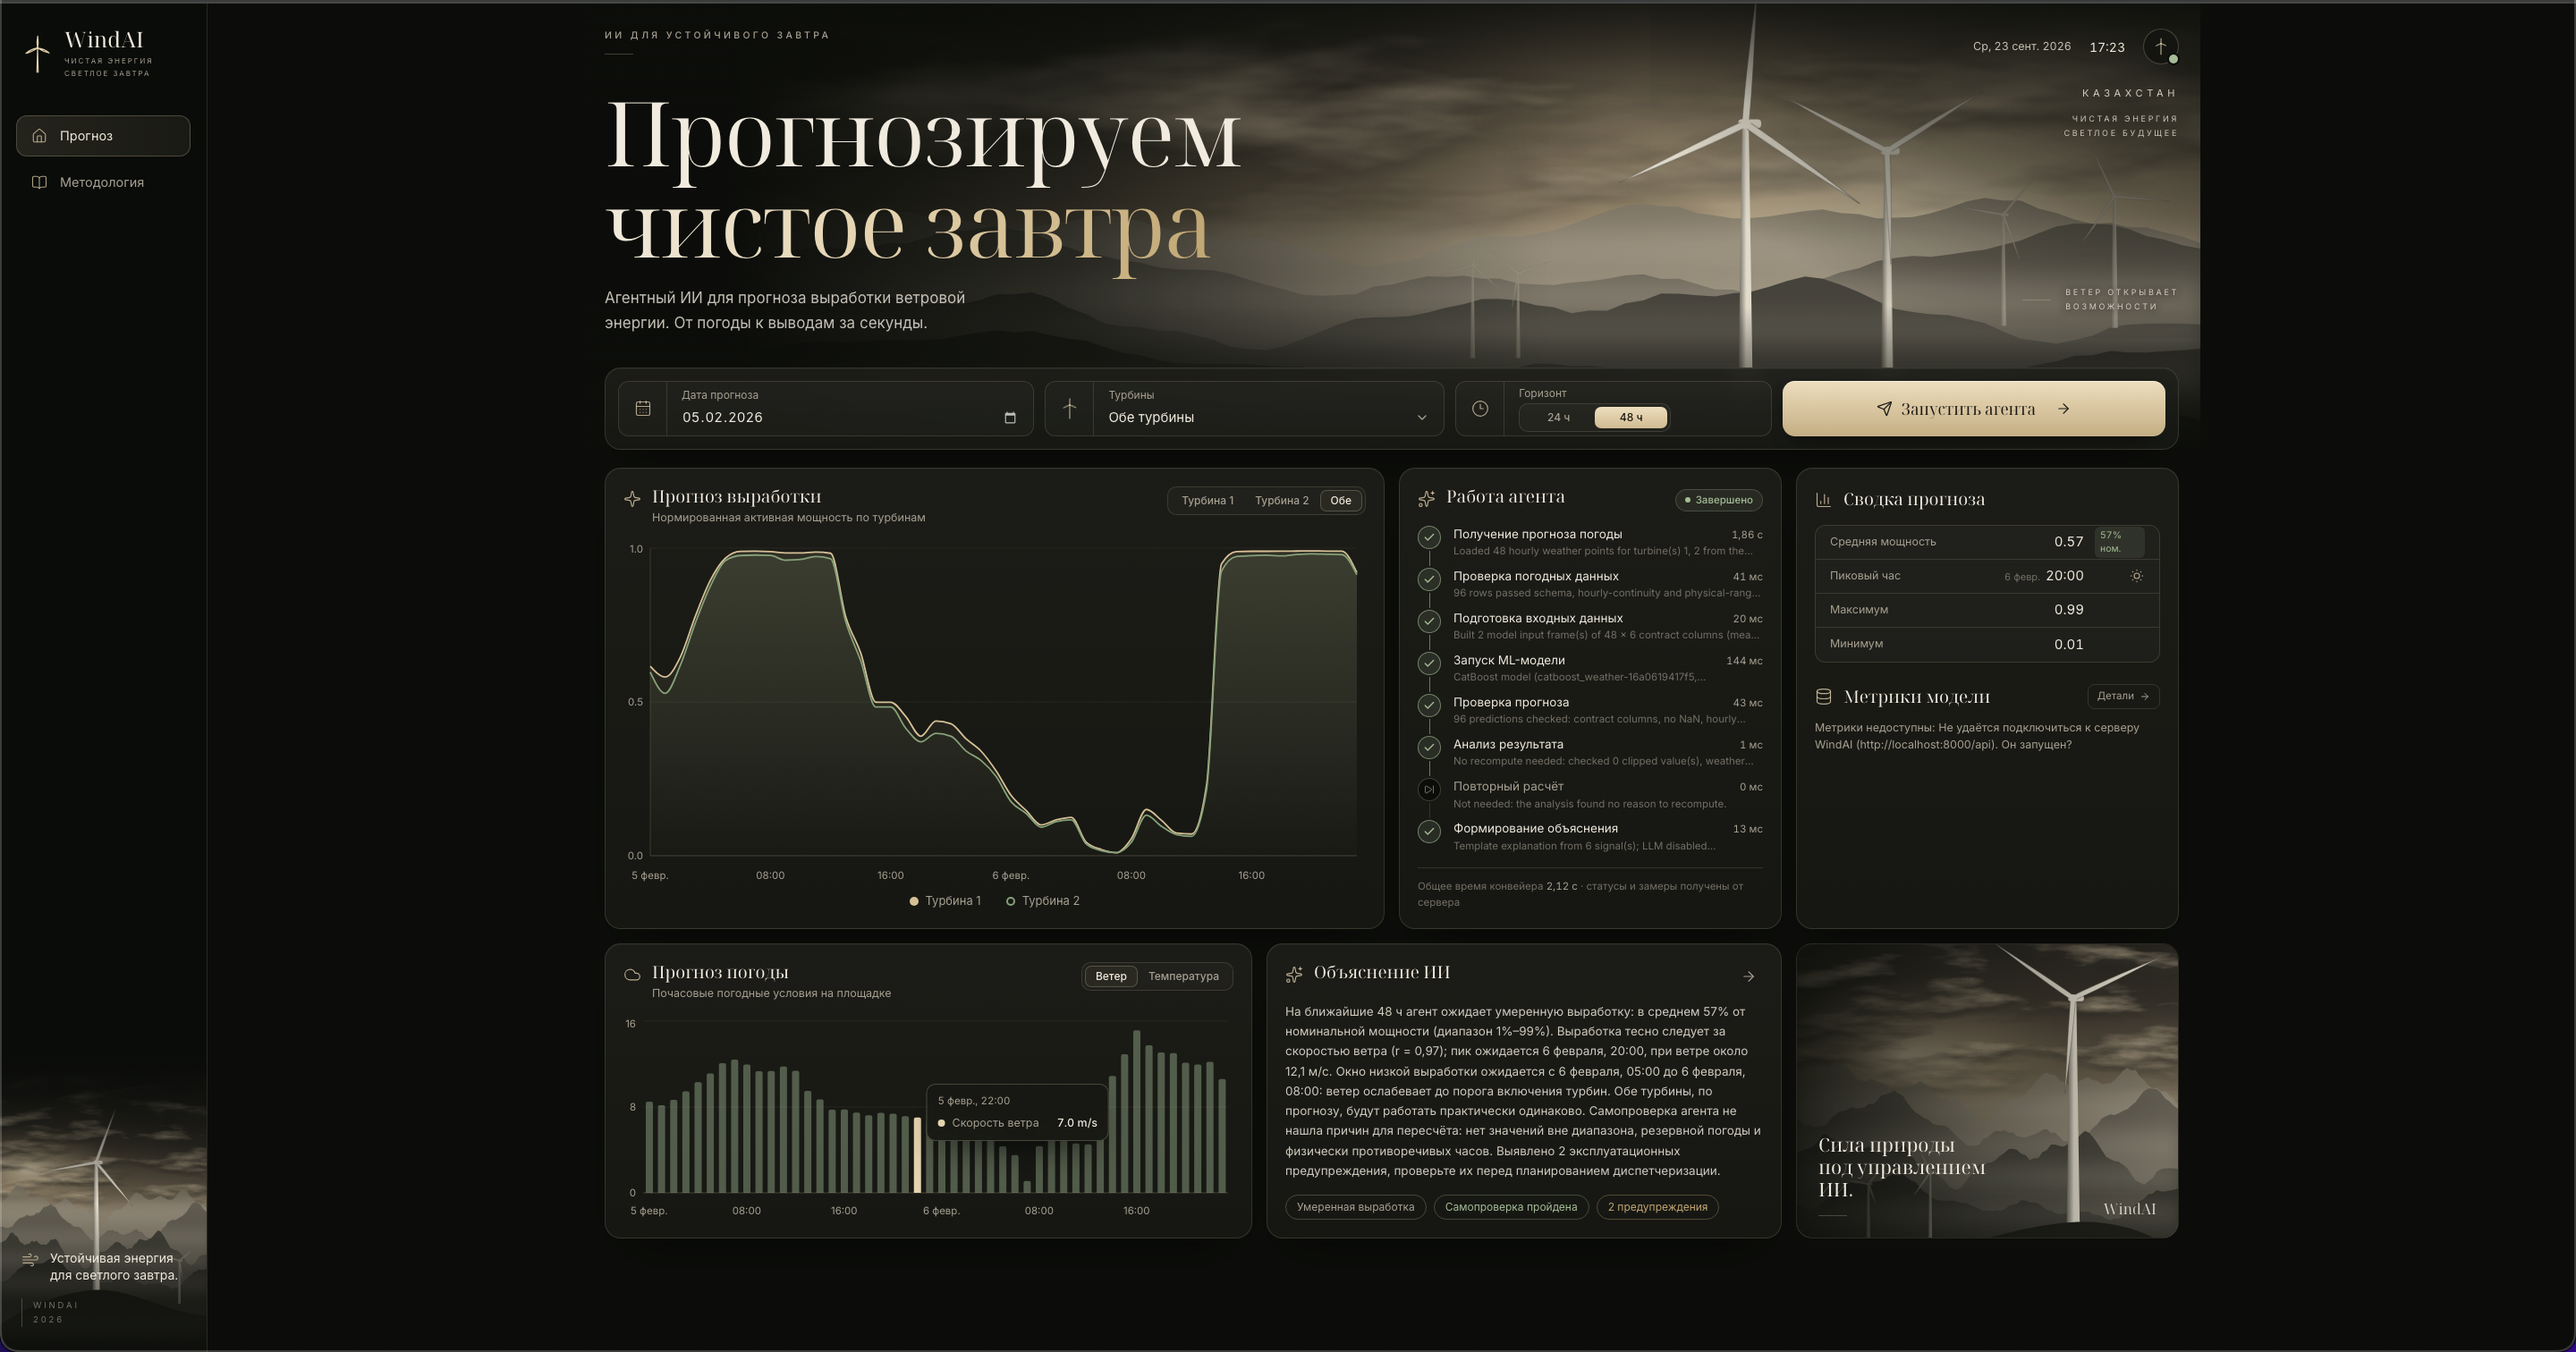
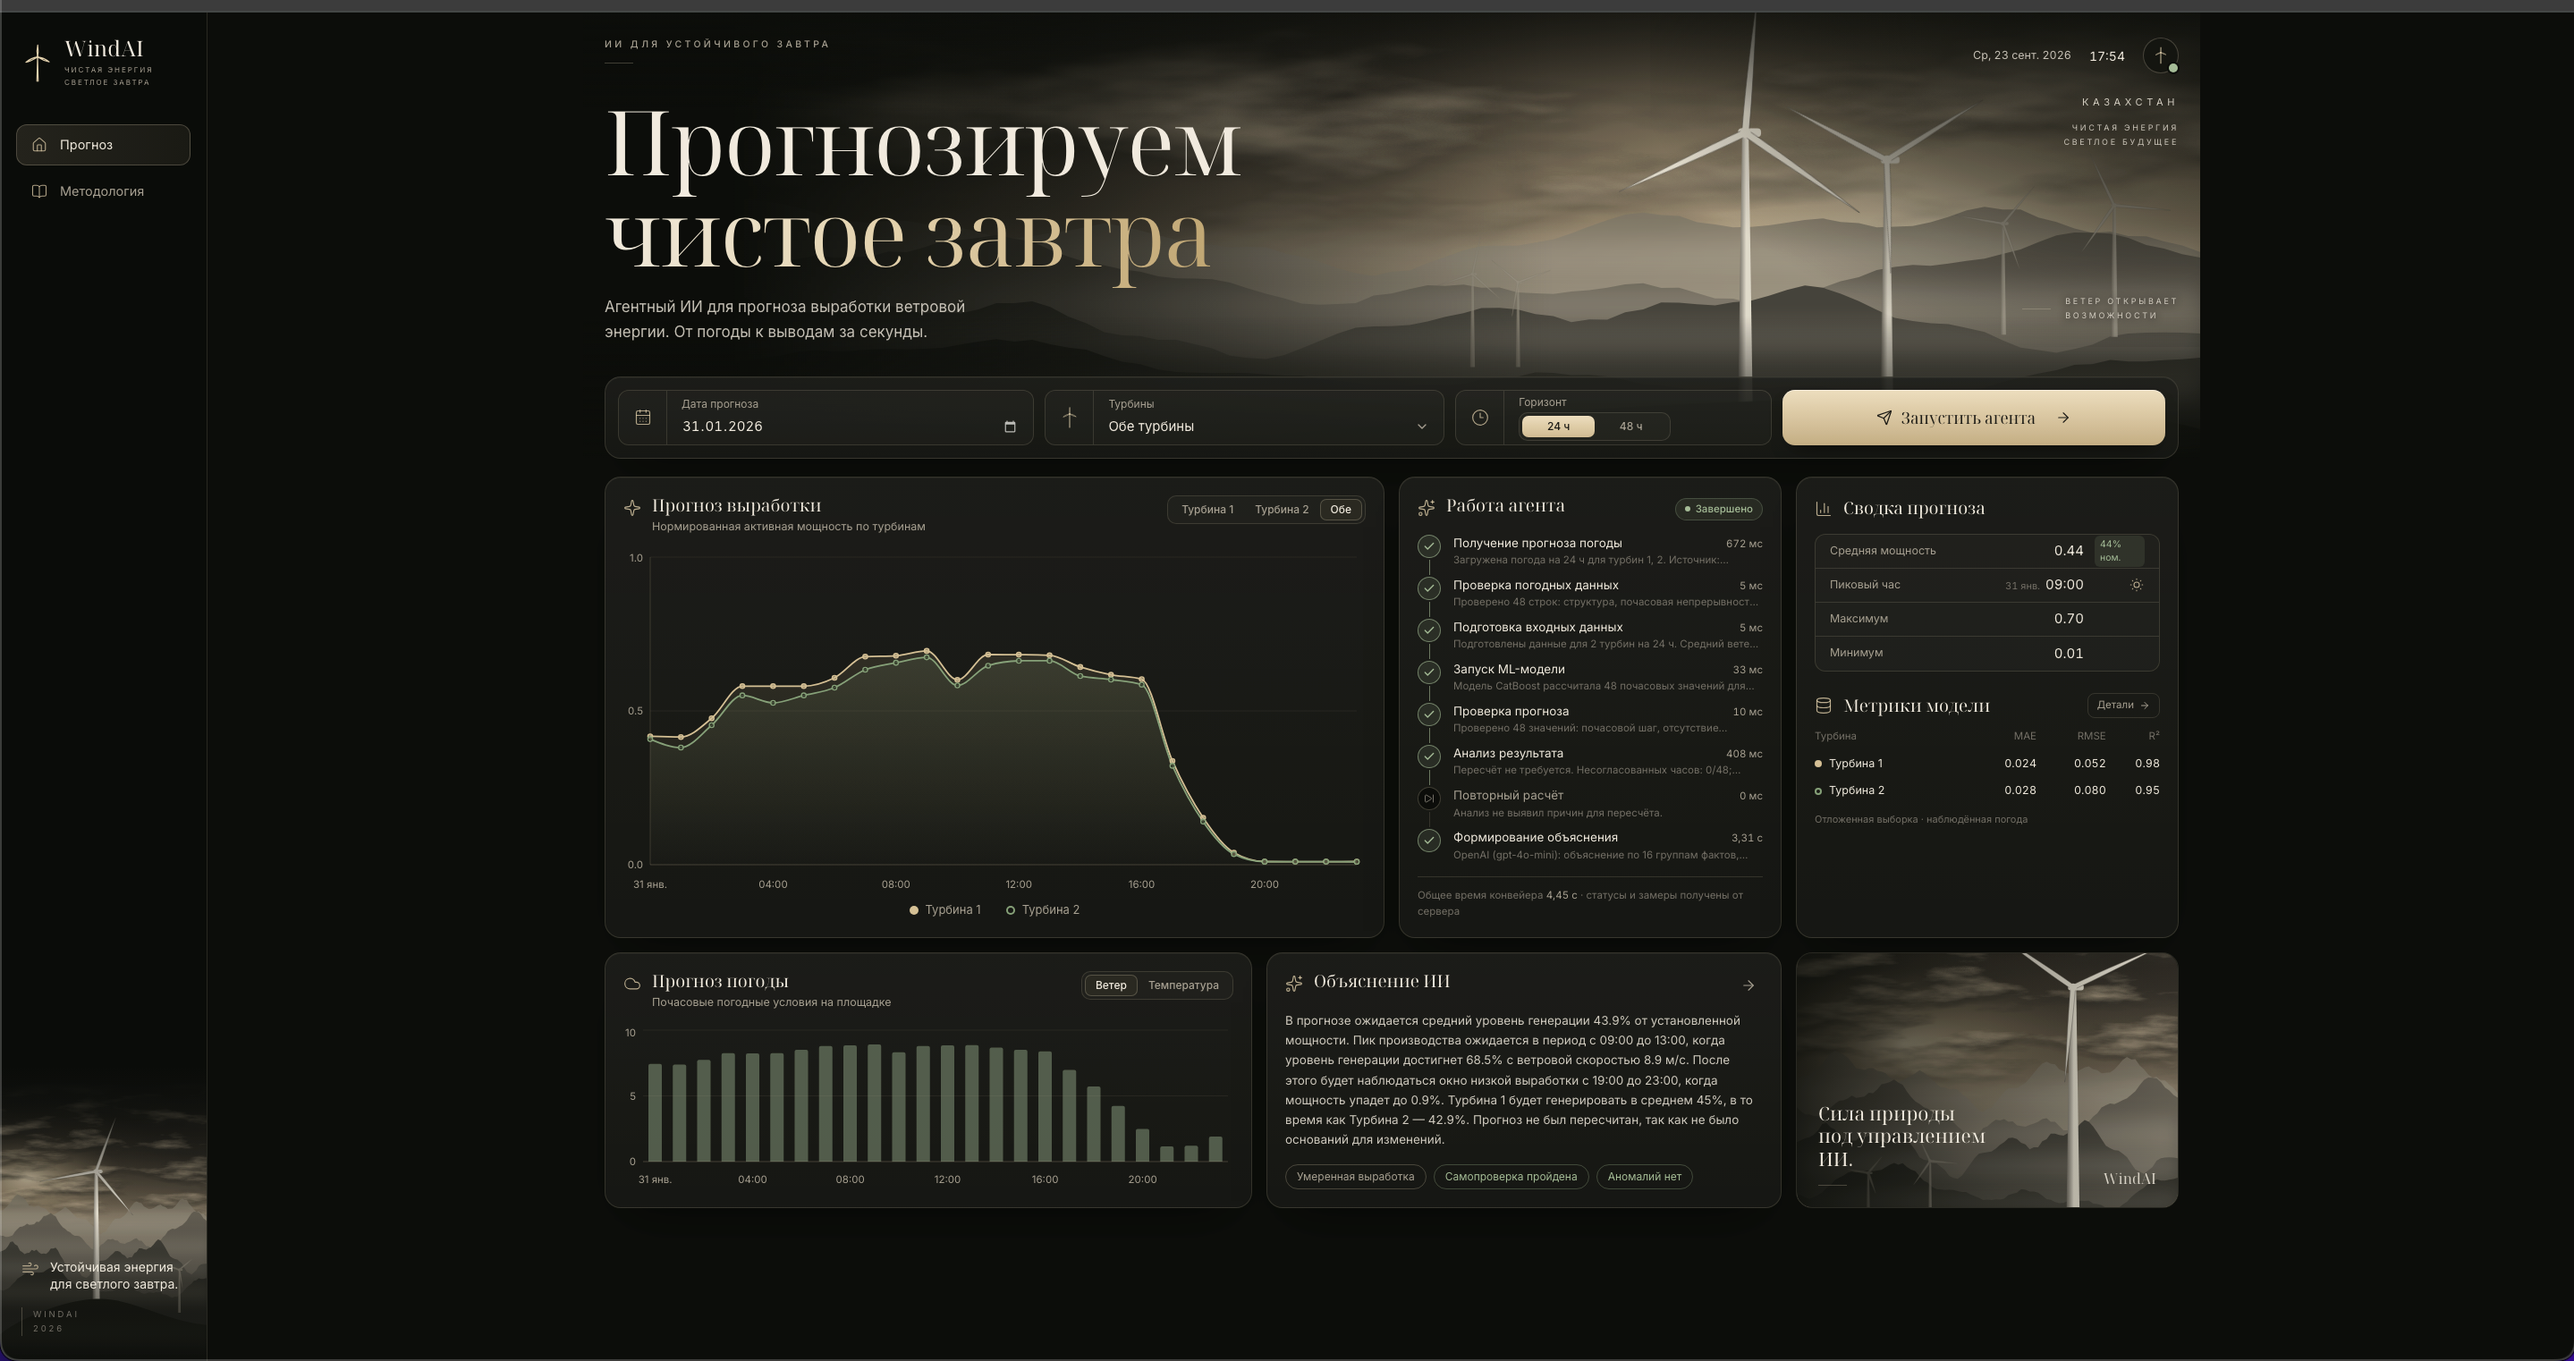
docs: show verified live dashboard with metrics and OpenAI

diff --git a/README.md b/README.md
@@ -15,9 +15,9 @@
 - **Почему меняется прогноз** — погода и объяснение простыми словами.
 - **На что обратить внимание** — предупреждения и результаты проверок агента.
 
-**Пример на экране:** утром 6 февраля ожидается спад, к вечеру — рост. Средняя мощность за двое суток — 57% от номинальной, то есть от мощности, на которую рассчитана турбина. Это показатель работы станции, а не процент точности ИИ. На графике `1` означает 100% номинальной мощности.
+**Пример на экране:** прогноз на 31 января, обе турбины, горизонт 24 часа. Утром ожидается пик, к вечеру выработка снижается почти до нуля. Средняя мощность за сутки составляет около **44% от номинальной**, то есть от мощности, на которую рассчитана турбина. Это показатель работы станции, а не процент точности ИИ. На графике `1` означает 100% номинальной мощности.
 
-*Скриншот можно увеличить нажатием. На этом снимке блок метрик недоступен; результаты проверки модели приведены ниже.*
+*Скриншот можно увеличить нажатием. На нём видны завершённый цикл агента, метрики модели и русское объяснение OpenAI. Метрики относятся к отложенной выборке с наблюдённой погодой; условия проверки приведены ниже.*
 
 ## Что мы разработали
 
